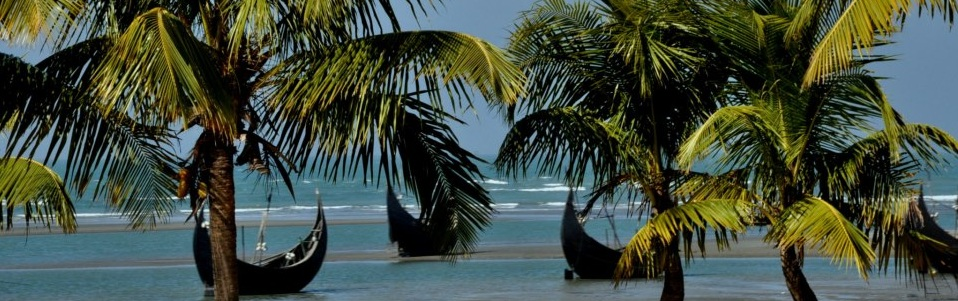
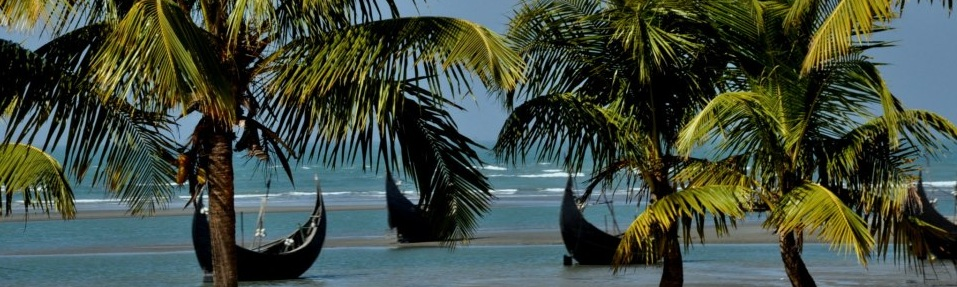
search complete

diff --git a/app/assets/stylesheets/framework_and_overrides.css.scss b/app/assets/stylesheets/framework_and_overrides.css.scss
@@ -421,3 +421,12 @@ img{
   }
 }
 //***********************************************************
+
+.search-form{
+  padding-top:60px;
+  padding-left:10px;
+  height:250px;
+  background-image:url('Shampaan_3.jpg');
+  color: white;
+  font-size:medium;
+}
